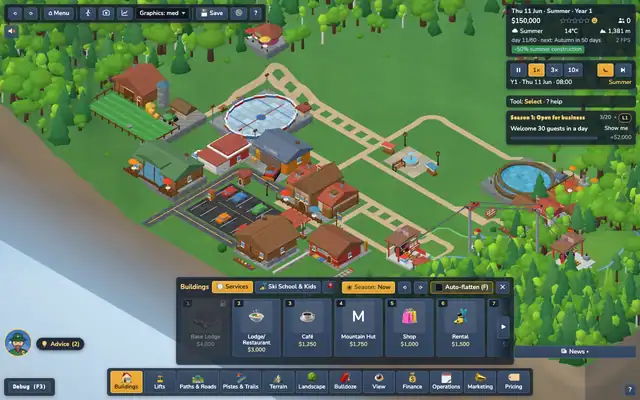
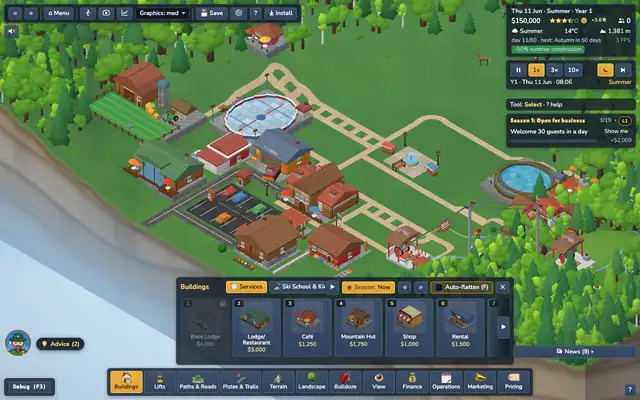
release: 0.5.0 (M8 graphics pass): version bump, CHANGELOG + what's new, devlog entry, guide Quality / shadows text, re-shot hero / gallery / drawer shots, OG cards, playtest-m8, docs index, AGENTS

diff --git a/src/config/whatsNew.generated.ts b/src/config/whatsNew.generated.ts
@@ -3,6 +3,17 @@ import type { WhatsNewEntry } from './whatsNew';
 
 export const WHATS_NEW: readonly WhatsNewEntry[] = [
   {
+    "version": "0.5.0",
+    "date": "2026-11-03",
+    "highlights": [
+      "Smoother animals: deer, ibex, foxes and the rest have rounded bodies, tapered legs, horns and ears instead of boxes and sticks.",
+      "Rounder buildings, lifts and vehicles: vaulted hotel canopies, a barn with a gambrel roof, round rails and tower tubes, curved lift station roofs…",
+      "A new set of lift icons in the Lifts drawer: each family (T-bar, fixed and detachable chairs, bubble chairs, gondola, cabin, funicular) has its own…",
+      "The edge of the map is a layered rock cliff with ledges and a grassy lip, and drawn rivers and ponds have soft, rounded shorelines instead of tile…",
+      "Real sun shadows on the High graphics setting, and a soft contact shadow under buildings, towers and forests on every setting."
+    ]
+  },
+  {
     "version": "0.4.0",
     "date": "2026-11-02",
     "highlights": [
@@ -22,18 +33,6 @@ export const WHATS_NEW: readonly WhatsNewEntry[] = [
       "While you build or paint, the goals, news and Rudi chips step aside; while you drag the map the cards fade out and return when you let go.",
       "Inspectors, Rudi's advice and the news list are sheets too: first lines at a glance, pull up for the rest. Toasts are small, one at a time, above…",
       "Landscape phones get a side sheet; tablets keep their drawers, capped at about 40 % of the height. The map is at least half the screen in every…"
-    ]
-  },
-  {
-    "version": "0.3.2",
-    "date": "2026-11-01",
-    "highlights": [
-      "Valley fog and inversion mornings: on roughly one cold morning in six a fog bank fills the valley while the summits stay clear, and it burns off by…",
-      "Special sunrises and sunsets, about one in four, not every day: a warm sky and pink alpenglow on the snowy summits for a while; plain days stay plain.",
-      "Stars and a moon with real phases over about 30 days at night, plus soft cloud shadows drifting over the slopes by day.",
-      "Dawn mist over lakes, sparkling frost on cold clear mornings and, rarely, a rainbow after rain; Photo mode suggests the right scene (Golden hour…",
-      "Settings > Graphics > Atmosphere: Off, Low or High. Off looks exactly like 0.3.1, and reduced motion keeps everything still.",
-      "A new website: five landing pages, a devlog with a post for every release, and a calmer landing page; Challenging is also about 30 % tighter and…"
     ]
   }
 ];

diff --git a/scripts/shots/m8-montage.ts b/scripts/shots/m8-montage.ts
@@ -26,7 +26,7 @@ async function tile(file: string, text: string, left: number, top: number, w = W
   const img = await sharp(`.weave/shots/${file}.png`).resize(w, h, { fit: 'cover' }).toBuffer();
   return { input: await sharp(img).composite([{ input: label(text, w), top: h - 22, left: 0 }]).toBuffer(), left, top };
 }
-async function save(name: string, base: sharp.Sharp): Promise<void> {
+async function save(name: string, base: ReturnType<typeof sharp>): Promise<void> {
   for (const q of [80, 70, 60, 50, 40]) {
     await base.clone().webp({ quality: q }).toFile(`docs/img/${name}.webp`);
     const kb = statSync(`docs/img/${name}.webp`).size / 1024;

diff --git a/tests/config/whatsNew.test.ts b/tests/config/whatsNew.test.ts
@@ -59,5 +59,5 @@ describe('after-reload card', () => {
     const r = whatsNewOnLaunch('0.2.2', '0.2.4', L); expect(r.show.map((e) => e.version)).toEqual(['0.2.4', '0.2.3']); expect(r.store).toBe('0.2.4');
   });
   it('dev builds never show it', () => { expect(whatsNewOnLaunch('0.2.1', 'dev', L)).toEqual({ show: [], store: null }); });
-  it('bundled list is newest first', () => { expect(WHATS_NEW[0]!.version).toBe('0.4.0'); });
+  it('bundled list is newest first', () => { expect(WHATS_NEW[0]!.version).toBe('0.5.0'); });
 });

diff --git a/AGENTS.md b/AGENTS.md
@@ -4,7 +4,7 @@ Read this first. Canonical instructions for AI agents (CLAUDE.md just points her
 
 ## Project
 **Slope Tycoon**: a browser PWA, 3D isometric ski-resort tycoon (three.js + TypeScript + Vite). Everything is procedural: terrain, models, textures, icons, logo, sound effects, ambience and music (no asset files except self-hosted fonts Nunito + Lilita One in `public/fonts`). Works offline (service worker), saves locally (IndexedDB + localStorage fallback).
-- Version is **0.4.0** (pre-release). **Never call it 1.0** until the user says so.
+- Version is **0.5.0** (pre-release). **Never call it 1.0** until the user says so.
 - Repo `maartenba/SlopeTycoon`; **not yet published**. **Licence is PROPRIETARY, all rights reserved** (owner decision; `LICENSE`, `package.json` `"license": "UNLICENSED"`). Use "source-available", never "open source"; do not change the licence without the owner (`docs/deploy.md`). Third-party: `THIRD_PARTY_NOTICES.md` (`npm run licenses`).
 - **Privacy (owner decision, supersedes the earlier "no tracking" rule)**: no ads, no accounts, saves stay on the device, **anonymous opt-in statistics** via Google Analytics (`G-NX37ERE0S9`). Consent first: nothing loads or is sent until `localStorage['slope.consent.analytics'] === 'granted'` (shared by the website and the game); never on localhost / headless. The only allowed external hosts are `googletagmanager.com` / `google-analytics.com` (injected after consent), plus the GitHub and Wikipedia LINKS on the website (plain links, nothing requested until clicked). A **Sponsor link** to exactly `https://github.com/sponsors/maartenba` (see `.github/FUNDING.yml`) is allowed in the website header/footer/About/landing and the game's About dialog / menu footer: wording 'Support the game' / 'Sponsor on GitHub' (a support link, NOT a sharing feature), `target=_blank rel=noopener`, never a popup/toast/gate. No other external requests. See `site/pages/privacy.md`, `docs/deploy.md`.
 
@@ -101,6 +101,7 @@ Tests live in `tests/` mirroring `src/` (sim, world, render, ui, ui-dom (happy-d
 ## Known gaps / open items
 - Done (0.2.0): touch, colour-blind palette, Statistics (`I`, `docs/stats.md`), named regions, Landscape drawer, redesigned Terrain / View drawers, M5.4 depth, M5.5. Remaining: human playtest STOP of Task 32.
 - **Phase 6 (content wave) is complete as of 0.3.0: see `docs/phase6-status.md`** (what shipped per milestone, what was deferred and why, known gaps, owner decisions). Remaining: the owner's final human playtest STOP of Task 43 (`docs/playtest-m66.md`).
+- Done in 0.5.0 (CHANGELOG, M8 graphics pass, render-only: no sim, save or golden change): the baseline audit and ranking are `docs/graphics-audit.md`; the before / after verification is `docs/graphics-m8.md` (draw calls +0, Low +0 % triangles via Low `treeDensity` 0.52, trees +0 %, gzip JS +11 kB, flicker same-machine numbers); **real sun shadows on High** (own depth pass, 2048 map, terrain receives, contact shadows everywhere at 0 draw calls; `docs/shadows.md`); rounder buildings, lift stations / towers / carriers, vehicles and snowcat (shared helpers in `src/render/meshes/common.ts`: tube, tyre, drum, dome, barrel, gambrel, windsock); per-family lift drawer icons (`src/ui/liftIcons.ts`); conifer whorls, rounder crowns, rock strata; smoother animals and guests; layered rock map-edge skirt and rounded shorelines. New scripts: `scripts/shots/m8-perf.ts`, `m8-share.ts`, `m8-calls.ts` (per-layer calls / tris), `m8-audit.ts`, `m8-montage.ts`, `m8-baseline.ts` and the lane shot helpers. Quality tiers stay low / med / high; the default is never High. Remaining: the owner's real-GPU / phone playtest STOP (`docs/playtest-m8.md`); M7.6 (scene films) starts only after that sign-off.
 - Done in 0.4.0 (CHANGELOG, M7.3 + M7.4): **sled runs** (paintable one-tile Sled layer, Sled Rental hut, `Networks.layers` Sled 16 / Coaster 32, sled-carrying lifts; `docs/sled-runs.md`), **Alpine Coaster**, **Sledder** guest type (index 12), **Pizzeria**, **Bakery**, **Tourist Office** (+6 % arrivals), **grass-strip flying** (Grass Strip + Skydive Centre, Launch Ramp + Landing Field; `docs/m74-buildings.md`) and the **Carnival** (6-11 Feb, parade, `docs/festivals.md`); `npm run sled:sanity`, `npm run m74:sanity`. Remaining: the owner's playtest STOPs (`docs/playtest-m73.md`, `docs/playtest-m74.md`).
 - Done in 0.3.3 (CHANGELOG, M7.5): **phones show the map** (`docs/mobile-ui.md`): `st-sheet` bottom / side sheets (peek / half / full) for the dock drawers, the inspectors, Rudi's advice and the news panel; one-row top bar with an overflow, a one-line HUD strip, icon speed row, one-at-a-time toasts, tool-first (cards step aside) and fade-while-dragging (`html[data-toolfirst]` / `data-camdrag`); tablets keep drawers capped at ~40 %; desktop pixel-identical (`npm run desktop:diff`); `npm run mobile:audit` asserts the map-visible share. Remaining: the owner's real-phone STOP (`docs/playtest-m75.md`).
 - Done in 0.3.2 (CHANGELOG, M7.0 + M7.2 + owner decisions): **Atmosphere** (render-only, `docs/atmosphere.md`): valley fog + inversion mornings, **special-sky days** (about one sunrise / sunset in four: warm grade, alpenglow on the summits), stars + moon phases, cloud shadows, dawn mist, frost sparkle, rainbow, photo-mode scene suggestions, and **Settings > Graphics > Atmosphere Off / Low / High** (Off == 0.3.1 look; `npm run flicker -- --atmos off|low|high`). M7.2 website work: five landing pages, devlog (`site/devlog/intros.json` needs a hand-written entry per release), landing redesign, SEO (`docs/seo-research.md`). Also Challenging ~30 % tighter, new Rudi tips, road overpass. Remaining: the owner's human playtest STOPs (`docs/playtest-m70.md`, `docs/playtest-m72.md`).

diff --git a/docs/playtest-m8.md b/docs/playtest-m8.md
@@ -1,0 +1,59 @@
+# M8 graphics pass: owner playtest (real GPU and phone)
+
+Everything in M8 was judged from software-rendered stills (SwiftShader, no GPU), so **only you can sign off the look and the speed**. Details and numbers: [`graphics-m8.md`](graphics-m8.md) (before / after), [`shadows.md`](shadows.md), [`graphics-audit.md`](graphics-audit.md) (the baseline). M7.6 (scene films) starts after this sign-off.
+
+## 1. Speed (F3 shows fps / draw calls)
+
+On your laptop, 128 map, a built-up resort with guests, default zoom and zoomed in:
+
+| Setting | fps default zoom | fps zoomed in | OK? |
+|---|---|---|---|
+| Low | | | |
+| Medium (the default) | | | |
+| High (shadows) | | | |
+
+- Is **Medium** as fast as 0.4.0 felt? (Medium triangles are +3 to +5 % vs 0.4.0, draw calls equal.)
+- Is **High** playable? If not, tell me the fps: I can lower the shadow refresh (`ShadowRig.refreshHz`) or the window.
+- 256 map at wide zoom on High: the tree shadows switch off by themselves; does it still feel fine?
+
+## 2. Shadows (High only)
+
+- Pan and rotate slowly over forest and the village: do shadows **shimmer, swim or crawl**? (They should only move in whole texels.)
+- Run the clock from morning to evening: do shadows grow and fade smoothly, vanish at night, soften in snow or rain?
+- Are they too faint, too strong or too blue? Noon with the default camera hides them behind the casters; rotate to see them.
+- Do any shadows look wrong (on roofs, floating, striped, a hard edge at the shadow window)?
+
+## 3. Phone (the one you tested 0.3.3 on)
+
+- Open on Low and Medium. Does it get warm, drop frames or pan stiffly? (Default is Low on touch.)
+- Is the map still readable with the new cliff edge and lift icons at 44 px?
+
+## 4. The look: say what you like and what is still blocky
+
+Per area, write 1 (worse) / 2 (same) / 3 (better) and a short note. Honest note from the agent: at default iso zoom, buildings and lifts look **very close to 0.4.0** (the rounder shapes show only in close-ups and in the ride-along); the clearest wins are the map edge, shorelines and the conifers.
+
+| Area | Rating | Notes |
+|---|---|---|
+| Conifers (whorls) in winter and summer | | |
+| Deciduous crowns, rocks | | |
+| Animals (deer, ibex, foxes, farm animals if you built a farm) | | |
+| Guests (scarf, limbs) | | |
+| Buildings (hotels, barn, ranger, toilets, cannons ...) | | |
+| Lift stations, towers, chairs, cabins (iso and ride-along) | | |
+| Cars, bus, train, helicopter, snowcat | | |
+| Map edge (rock layers) | | |
+| Shorelines (rivers, ponds, ice) | | |
+| Snow and grass surface | | |
+| Lift drawer icons and the Buildings drawer thumbnails | | |
+| Night windows and lit lifts, dusk and dawn | | |
+| All four seasons | | |
+
+## 5. Wishes for a follow-up round
+
+List the **specific assets** you still find blocky or bulky, in priority order (building, lift, animal, guest, tree species, vehicle). I only had the budget for a part of the list; the rest of the 69 buildings were touched lightly or not at all (see the audit). Also: anything that got worse, anything you want back as it was, and whether High should become a "Shadows" toggle of its own instead of a tier.
+
+## 6. Known gaps (from the notes)
+
+- Only the terrain receives shadows; no self-shadowing on buildings or trees; no shadows in ride / photo / walk views; terrain casts none (no hill shadows at dawn).
+- Winter pan flicker on dense conifers is about 0.09 points higher than 0.4.0 in the harness (0.65 % vs 0.56 % oscillating pixels): look for shimmer on snowy conifers while panning.
+- The F3 line "Render problems" was not individually read in a shot: check it says 0 on your GPU.

diff --git a/CHANGELOG.md b/CHANGELOG.md
@@ -4,6 +4,30 @@ All notable changes to Slope Tycoon. Format: [Keep a Changelog](https://keepacha
 
 ## [Unreleased]
 
+## [0.5.0] - 2026-11-03 (pre-release)
+
+The "smoother look" release (milestone M8): rounder buildings, lifts and vehicles, softer animals, a layered rock edge around the map, soft shorelines, and real sun shadows on the High graphics setting. Nothing in the economy or the saves changed.
+
+### Highlights
+
+- Smoother animals: deer, ibex, foxes and the rest have rounded bodies, tapered legs, horns and ears instead of boxes and sticks.
+- Rounder buildings, lifts and vehicles: vaulted hotel canopies, a barn with a gambrel roof, round rails and tower tubes, curved lift station roofs, rounder cars, buses, trains and the snowcat.
+- A new set of lift icons in the Lifts drawer: each family (T-bar, fixed and detachable chairs, bubble chairs, gondola, cabin, funicular) has its own picture.
+- The edge of the map is a layered rock cliff with ledges and a grassy lip, and drawn rivers and ponds have soft, rounded shorelines instead of tile steps.
+- Real sun shadows on the High graphics setting, and a soft contact shadow under buildings, towers and forests on every setting.
+
+### Changes
+
+- **Render only (M8, `docs/graphics-audit.md`, `docs/graphics-m8.md`)**: no sim, save or balance change, goldens unchanged. Draw calls in the main pass are the same as 0.4.0, the iso triangle count is within +5 % on Medium / High and not higher on Low, and the JavaScript grew by 11 kB gzip.
+- **Sun shadows (`docs/shadows.md`)**: High renders trees, buildings, lift towers and stations, guests, vehicles, animals and props into a sun depth map that the terrain receives. The map follows the camera in whole texels so shadows do not swim, refreshes at most 10 times a second, fades at dusk, is gone at night and is softer in bad weather. Large 256 maps drop the tree shadows at wide zoom to stay light.
+- **Contact shadows** are about 45 % stronger on every setting (a change to the ground mask the terrain already had: 0 extra draw calls).
+- **Conifers and crowns**: drooping tiers with a turned whorl per tier, rounder deciduous crowns, boulders with strata and per-rock proportions, at the same triangle count as before. Guests got a scarf.
+- **Buildings and lifts (lanes A and A2)**: round tube, tyre, drum, dome, barrel and windsock helpers, window glazing bars, eave brackets, round crossarms with struts and caps, bullwheel hoods, smooth boarding ramps, round footings, a mid-station canopy; hotels with a vaulted canopy and a pool ladder and board, the farm barn with a domed silo, the Ranger Station, Snowscooter Base, Toilets, Snow cannon, Launch ramp and Coffee Stand reworked.
+- **Vehicles**: smoother car lofts with wheel arches and mirrors, coach doors and hatches, train doors and roof pods, an ellipsoid helicopter, a rounded snowcat.
+- **Lift drawer icons** are drawn per family, with an inline vector fallback and thumbnails that render on demand.
+- **Low graphics**: tree density 0.55 -> 0.52 so that Low is not heavier than 0.4.0 even with the new detail.
+- Tooling: `scripts/shots/m8-perf.ts`, `m8-share.ts`, `m8-calls.ts`, `m8-audit.ts`, `m8-montage.ts`, `m8-baseline.ts`; `npm run flicker` takes `--quality low|med|high`.
+
 ## [0.4.0] - 2026-11-02 (pre-release)
 
 The "more to do" release (milestones M7.3 and M7.4): sleds and an alpine coaster, pizza and bread in the village, a Tourist Office, jumping and gliding from a grass strip, and a proper Carnival.

diff --git a/docs/README.md b/docs/README.md
@@ -5,6 +5,7 @@ One doc per feature or system. Player-facing docs are the guide in `site/guide/*
 ## Start here
 - [release.md](release.md): release checklist and notes. [phase6-status.md](phase6-status.md): what the 0.3.0 content wave shipped, deferred and why. [depth.md](depth.md): M5.4 depth summary.
 - [economy-audit.md](economy-audit.md): M7.1 economy + rules audit: building contract suite, access / placement audit, per-building ROI table, difficulty targets, fix list. [placement-rules.md](placement-rules.md) carries the generated rules table; [playtest-m71.md](playtest-m71.md) the 0.3.1 checklist.
+- [graphics-audit.md](graphics-audit.md), [graphics-m8.md](graphics-m8.md), [shadows.md](shadows.md): M8 graphics pass: baseline audit and ranking, before / after perf + flicker verification, and the sun-shadow / contact-shadow design; [playtest-m8.md](playtest-m8.md) is the owner's real-GPU checklist.
 - [seo-research.md](seo-research.md): Ahrefs keyword + competitor research, keyword map, landing pages, design brief and the implementation status per recommendation (M7.2). [outreach-drafts.md](outreach-drafts.md) holds draft posts for the owner to publish himself; [playtest-m72.md](playtest-m72.md) is the M7.2 review checklist.
 - [deploy.md](deploy.md): GitHub Pages deployment, domain, pre-publication checks, **licence (proprietary, all rights reserved)**.
 - [visual-qa.md](visual-qa.md): screenshot harness. [perf.md](perf.md): performance budgets. [balance.md](balance.md): bot economy checks and golden re-records.
@@ -26,4 +27,4 @@ One doc per feature or system. Player-facing docs are the guide in `site/guide/*
 - [saves.md](saves.md), [pwa.md](pwa.md), [analytics.md](analytics.md) (opt-in, anonymous).
 
 ## Human playtest checklists (keep)
-[M5.1](playtest-m51.md), [M5.2](playtest-m52.md), [M5.3](playtest-m53.md) (Phase 5, historical); [M6.1](playtest-m61.md), [M6.2 + M6.6](playtest-m62.md), [M6.3](playtest-m63.md), [M6.4](playtest-m64.md), [M6.5](playtest-m65.md), [M6.7 final](playtest-m66.md) (Phase 6; the owner's final playtest is still open).
+[M5.1](playtest-m51.md), [M5.2](playtest-m52.md), [M5.3](playtest-m53.md) (Phase 5, historical); [M6.1](playtest-m61.md), [M6.2 + M6.6](playtest-m62.md), [M6.3](playtest-m63.md), [M6.4](playtest-m64.md), [M6.5](playtest-m65.md), [M6.7 final](playtest-m66.md) (Phase 6; the owner's final playtest is still open); [M7.1](playtest-m71.md), [M7.3](playtest-m73.md), [M7.4](playtest-m74.md), [M7.5](playtest-m75.md), [M8 audit](playtest-m8-audit.md), [M8](playtest-m8.md).

diff --git a/docs/deploy.md b/docs/deploy.md
@@ -88,7 +88,7 @@ Nothing has been pushed or created on GitHub yet. The local clone already has `o
 4. Actions → wait for **Deploy to GitHub Pages** (build, then deploy). URLs: site <https://slopetycoon.com/>, guide `.../guide/`, game `.../play/`.
 5. Repo "About": description (e.g. "Cosy ski-resort tycoon in the browser: three.js, procedural, installable PWA"), website = the Pages URL, topics such as `three-js`, `typescript`, `game`, `tycoon`, `pwa`, `ski`.
 6. Optional custom domain: set `SITE_CNAME` as a repository variable/env for the build step, DNS CNAME to `maartenba.github.io`, enable Enforce HTTPS (see above). Done for `slopetycoon.com`.
-7. First release (when you want it): `npm run release -- ...` (see `scripts/release.ts`) then `git push origin main v0.4.0`. After the tag exists add compare links to `CHANGELOG.md` (`[Unreleased]: https://github.com/maartenba/SlopeTycoon/compare/v0.1.0...HEAD`); none exist yet because there are no tags.
+7. First release (when you want it): `npm run release -- ...` (see `scripts/release.ts`) then `git push origin main v0.5.0`. After the tag exists add compare links to `CHANGELOG.md` (`[Unreleased]: https://github.com/maartenba/SlopeTycoon/compare/v0.1.0...HEAD`); none exist yet because there are no tags.
 
 ### Double-check before going public
 * **No secrets**: `.env*` is git-ignored; run `git log -p | grep -iE "api[_-]?key|secret|token|password"` and scan the output; nothing in `src/` or `public/` should contain credentials.
@@ -103,12 +103,12 @@ Nothing has been pushed or created on GitHub yet. The local clone already has `o
 ```bash
 # Option A: one fresh root commit (drops all old history)
 git checkout --orphan clean-main
-git add -A && git commit -m "Slope Tycoon 0.4.0"
+git add -A && git commit -m "Slope Tycoon 0.5.0"
 git branch -M clean-main main          # replaces old main (backup first!)
 git reflog expire --expire=now --all && git gc --prune=now --aggressive
 du -sh .git
 
 # Option B: keep history, squash into the first commit's tree state
-#   git reset --soft $(git rev-list --max-parents=0 HEAD) && git commit --amend -m "Slope Tycoon 0.4.0"
+#   git reset --soft $(git rev-list --max-parents=0 HEAD) && git commit --amend -m "Slope Tycoon 0.5.0"
 #   (this also collapses everything into a single commit; the old blobs go away after the gc above)
 ```

diff --git a/site/guide/settings.md b/site/guide/settings.md
@@ -19,7 +19,7 @@ Open **Settings** with the gear icon in the top bar. The game pauses while Setti
 
 ## Look and feel
 
-- **Quality**: lower it on a modest laptop (also in the top bar as *Graphics*).
+- **Quality**: *Low*, *Medium* or *High* (also in the top bar as *Graphics*). Lower it on a modest laptop or a phone. **High** also casts real sun shadows from trees, buildings, lifts, guests and vehicles onto the ground; they fade at dusk, vanish at night and are softer in bad weather. Soft contact shadows under buildings and forests are on at every setting. The game never starts on High by itself: try it, and go back to Medium if the map stutters.
 - **Atmosphere**: *Off*, *Low* or *High* for valley fog, special sunrises, stars and the moon, mist, frost and rainbows. Off looks exactly like 0.3.1; the default is High on a desktop and Low on touch screens. See [Atmosphere](page:atmosphere).
 - **Feedback intensity**: *Off*, *Subtle* or *Lively* controls popups, puffs, confetti and festival fireworks when things happen.
 - **Show hints** and **Replay tutorial**.

diff --git a/THIRD_PARTY_NOTICES.md b/THIRD_PARTY_NOTICES.md
@@ -1,6 +1,6 @@
 # Third-party notices
 
-Generated by `npm run licenses` (scripts/licenses.ts). Slope Tycoon 0.4.0 itself is proprietary, all rights reserved (see `LICENSE`); the components below keep their own licences. All game art, sound and models are generated procedurally in code; no third-party image, audio or model assets are bundled.
+Generated by `npm run licenses` (scripts/licenses.ts). Slope Tycoon 0.5.0 itself is proprietary, all rights reserved (see `LICENSE`); the components below keep their own licences. All game art, sound and models are generated procedurally in code; no third-party image, audio or model assets are bundled.
 
 ## Bundled in the game (runtime)
 

diff --git a/README.md b/README.md
@@ -5,9 +5,9 @@ through winter *and* summer. Three.js + TypeScript, no backend, no external asse
 
 [![Sponsor](https://img.shields.io/badge/Sponsor-%E2%99%A5-ea4aaa?logo=githubsponsors)](https://github.com/sponsors/maartenba)
 
-**Version 0.4.0** (pre-release)
+**Version 0.5.0** (pre-release)
 
-Status: pre-release (0.4.0). Playtest feedback is welcome.
+Status: pre-release (0.5.0). Playtest feedback is welcome.
 
 ## Features
 
